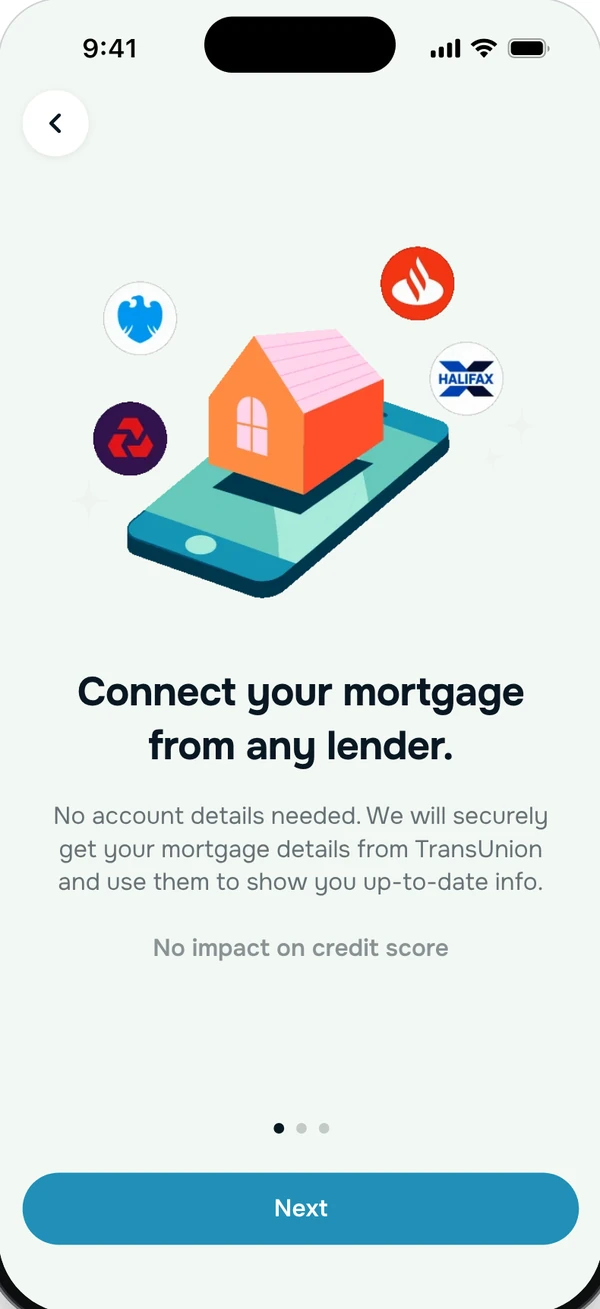
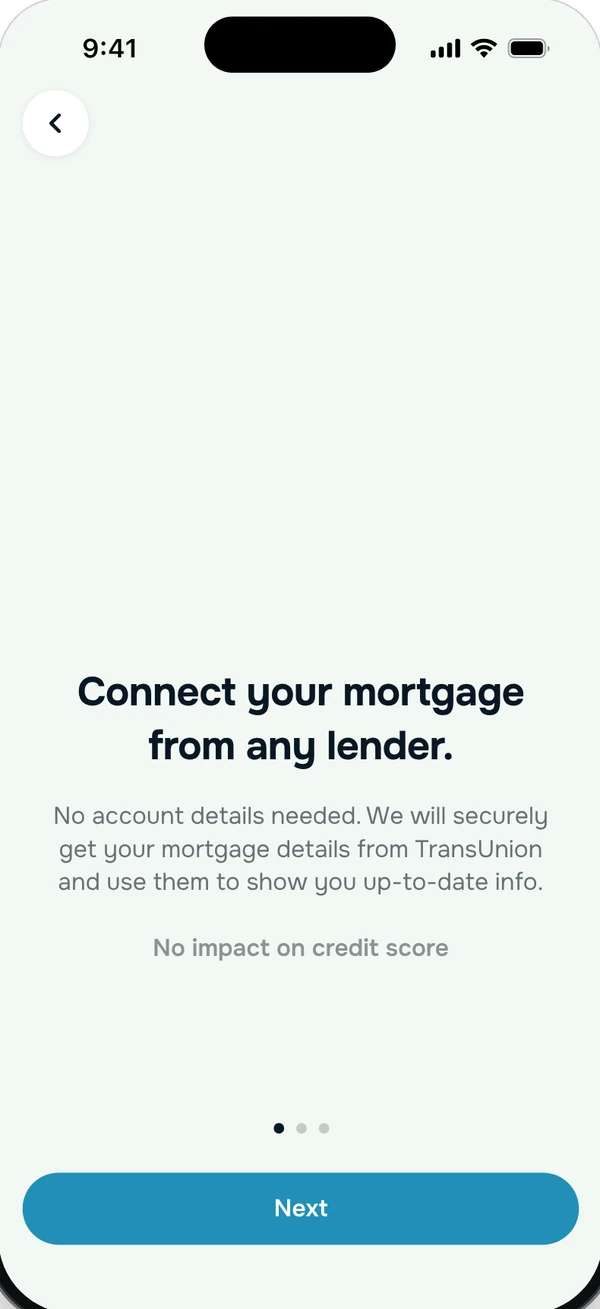
Deck: animated house on the connect screen (slide 2)
Claude-Session: https://claude.ai/code/session_019ui8k763ghSzq4U6arn5bM

Changed region(s): [[0.15, 0.2445, 0.84, 0.4584], [0.63, 0.1833, 0.78, 0.2445], [0.18, 0.2139, 0.27, 0.275]]

diff --git a/remortgage-presentation/15min-present.html b/remortgage-presentation/15min-present.html
@@ -9,11 +9,11 @@
 <link rel="preconnect" href="https://fonts.googleapis.com">
 <link rel="preconnect" href="https://fonts.gstatic.com" crossorigin>
 <link href="https://fonts.googleapis.com/css2?family=DM+Sans:opsz,wght@9..40,400;9..40,500;9..40,600;9..40,700;9..40,800&family=Fragment+Mono&display=swap" rel="stylesheet">
-<link rel="stylesheet" href="styles.css?v=178">
-<link rel="stylesheet" href="deck.css?v=178">
-<link rel="stylesheet" href="monzo.css?v=178">
+<link rel="stylesheet" href="styles.css?v=179">
+<link rel="stylesheet" href="deck.css?v=179">
+<link rel="stylesheet" href="monzo.css?v=179">
 <link rel="preconnect" href="https://images.ctfassets.net">
-<script src="15min-present.js?v=178" defer></script>
+<script src="15min-present.js?v=179" defer></script>
 <style>
 body.present{--bar:52px;background:#112231;grid-template-rows:minmax(0,1fr) auto;height:100svh;min-height:0;overflow:hidden}
 .present .topbar,.present .slide-caption,.present .arrow,.present .notes-bottom,.present .notes-sheet{display:none!important}
@@ -53,7 +53,7 @@ body.present{--bar:52px;background:#112231;grid-template-rows:minmax(0,1fr) auto
 </div></section>
 <section class="slide dark was-light" data-n="02" data-k="context"><div class="eyebrow a mz-kicker">Context</div><h1 class="a" style="--d:1">Monzo customers loved seeing their mortgage in the app, but it didn’t make money</h1>
 <div class="phones-row ctx" style="margin-top:26px">
-  <div class="bz a" style="--d:2"><span class="bz-screen"><img src="assets/img/connect-intro.webp?v=2" alt="Connect your mortgage from any lender, with no account details"></span></div>
+  <div class="bz a" style="--d:2"><span class="bz-screen"><img src="assets/img/connect-intro.webp?v=3" alt="Connect your mortgage from any lender, with no account details"><img class="bz-anim" src="assets/anim/house-light.webp" alt="" aria-hidden="true" style="left:8.54%;top:16.556%;width:82.917%"></span></div>
   <div class="bz a" style="--d:3"><span class="bz-screen"><img src="assets/img/home-1.png" alt="Focus view: your home, equity and mortgage"></span></div>
   <div class="bz a" style="--d:4"><span class="bz-screen bz-375"><img src="assets/img/calc-overpay.png" alt="Overpayment calculator"></span></div>
   <div class="bz a" style="--d:5"><span class="bz-screen bz-375"><img src="assets/img/calc-rate.png" alt="Interest rate calculator: how different rates impact your payment"></span></div>

diff --git a/remortgage-presentation/present.html b/remortgage-presentation/present.html
@@ -9,11 +9,11 @@
 <link rel="preconnect" href="https://fonts.googleapis.com">
 <link rel="preconnect" href="https://fonts.gstatic.com" crossorigin>
 <link href="https://fonts.googleapis.com/css2?family=DM+Sans:opsz,wght@9..40,400;9..40,500;9..40,600;9..40,700;9..40,800&family=Fragment+Mono&display=swap" rel="stylesheet">
-<link rel="stylesheet" href="styles.css?v=178">
-<link rel="stylesheet" href="deck.css?v=178">
-<link rel="stylesheet" href="monzo.css?v=178">
+<link rel="stylesheet" href="styles.css?v=179">
+<link rel="stylesheet" href="deck.css?v=179">
+<link rel="stylesheet" href="monzo.css?v=179">
 <link rel="preconnect" href="https://images.ctfassets.net">
-<script src="present.js?v=178" defer></script>
+<script src="present.js?v=179" defer></script>
 <style>
 body.present{--bar:52px;background:#112231;grid-template-rows:minmax(0,1fr) auto;height:100svh;min-height:0;overflow:hidden}
 .present .topbar,.present .slide-caption,.present .arrow,.present .notes-bottom,.present .notes-sheet{display:none!important}
@@ -53,7 +53,7 @@ body.present{--bar:52px;background:#112231;grid-template-rows:minmax(0,1fr) auto
 </div></section>
 <section class="slide dark was-light" data-n="02" data-k="context"><div class="eyebrow a mz-kicker">Context</div><h1 class="a" style="--d:1">Monzo customers loved seeing their mortgage in the app, but it didn’t make money</h1>
 <div class="phones-row ctx" style="margin-top:26px">
-  <div class="bz a" style="--d:2"><span class="bz-screen"><img src="assets/img/connect-intro.webp?v=2" alt="Connect your mortgage from any lender, with no account details"></span></div>
+  <div class="bz a" style="--d:2"><span class="bz-screen"><img src="assets/img/connect-intro.webp?v=3" alt="Connect your mortgage from any lender, with no account details"><img class="bz-anim" src="assets/anim/house-light.webp" alt="" aria-hidden="true" style="left:8.54%;top:16.556%;width:82.917%"></span></div>
   <div class="bz a" style="--d:3"><span class="bz-screen"><img src="assets/img/home-1.png" alt="Focus view: your home, equity and mortgage"></span></div>
   <div class="bz a" style="--d:4"><span class="bz-screen bz-375"><img src="assets/img/calc-overpay.png" alt="Overpayment calculator"></span></div>
   <div class="bz a" style="--d:5"><span class="bz-screen bz-375"><img src="assets/img/calc-rate.png" alt="Interest rate calculator: how different rates impact your payment"></span></div>

diff --git a/remortgage-presentation/index.html b/remortgage-presentation/index.html
@@ -9,11 +9,11 @@
 <link rel="preconnect" href="https://fonts.googleapis.com">
 <link rel="preconnect" href="https://fonts.gstatic.com" crossorigin>
 <link href="https://fonts.googleapis.com/css2?family=DM+Sans:opsz,wght@9..40,400;9..40,500;9..40,600;9..40,700;9..40,800&family=Fragment+Mono&display=swap" rel="stylesheet">
-<link rel="stylesheet" href="styles.css?v=178">
-<link rel="stylesheet" href="deck.css?v=178">
-<link rel="stylesheet" href="monzo.css?v=178">
+<link rel="stylesheet" href="styles.css?v=179">
+<link rel="stylesheet" href="deck.css?v=179">
+<link rel="stylesheet" href="monzo.css?v=179">
 <link rel="preconnect" href="https://images.ctfassets.net">
-<script src="slides.js?v=178" defer></script>
+<script src="slides.js?v=179" defer></script>
 </head>
 <body>
 <header class="topbar">
@@ -41,7 +41,7 @@
 </div></section>
 <section class="slide dark was-light" data-n="02" data-k="context"><div class="eyebrow a mz-kicker">Context</div><h1 class="a" style="--d:1">Monzo customers loved seeing their mortgage in the app, but it didn’t make money</h1>
 <div class="phones-row ctx" style="margin-top:26px">
-  <div class="bz a" style="--d:2"><span class="bz-screen"><img src="assets/img/connect-intro.webp?v=2" alt="Connect your mortgage from any lender, with no account details"></span></div>
+  <div class="bz a" style="--d:2"><span class="bz-screen"><img src="assets/img/connect-intro.webp?v=3" alt="Connect your mortgage from any lender, with no account details"><img class="bz-anim" src="assets/anim/house-light.webp" alt="" aria-hidden="true" style="left:8.54%;top:16.556%;width:82.917%"></span></div>
   <div class="bz a" style="--d:3"><span class="bz-screen"><img src="assets/img/home-1.png" alt="Focus view: your home, equity and mortgage"></span></div>
   <div class="bz a" style="--d:4"><span class="bz-screen bz-375"><img src="assets/img/calc-overpay.png" alt="Overpayment calculator"></span></div>
   <div class="bz a" style="--d:5"><span class="bz-screen bz-375"><img src="assets/img/calc-rate.png" alt="Interest rate calculator: how different rates impact your payment"></span></div>

diff --git a/remortgage-presentation/15min.html b/remortgage-presentation/15min.html
@@ -9,11 +9,11 @@
 <link rel="preconnect" href="https://fonts.googleapis.com">
 <link rel="preconnect" href="https://fonts.gstatic.com" crossorigin>
 <link href="https://fonts.googleapis.com/css2?family=DM+Sans:opsz,wght@9..40,400;9..40,500;9..40,600;9..40,700;9..40,800&family=Fragment+Mono&display=swap" rel="stylesheet">
-<link rel="stylesheet" href="styles.css?v=178">
-<link rel="stylesheet" href="deck.css?v=178">
-<link rel="stylesheet" href="monzo.css?v=178">
+<link rel="stylesheet" href="styles.css?v=179">
+<link rel="stylesheet" href="deck.css?v=179">
+<link rel="stylesheet" href="monzo.css?v=179">
 <link rel="preconnect" href="https://images.ctfassets.net">
-<script src="15min.js?v=178" defer></script>
+<script src="15min.js?v=179" defer></script>
 </head>
 <body>
 <header class="topbar">
@@ -41,7 +41,7 @@
 </div></section>
 <section class="slide dark was-light" data-n="02" data-k="context"><div class="eyebrow a mz-kicker">Context</div><h1 class="a" style="--d:1">Monzo customers loved seeing their mortgage in the app, but it didn’t make money</h1>
 <div class="phones-row ctx" style="margin-top:26px">
-  <div class="bz a" style="--d:2"><span class="bz-screen"><img src="assets/img/connect-intro.webp?v=2" alt="Connect your mortgage from any lender, with no account details"></span></div>
+  <div class="bz a" style="--d:2"><span class="bz-screen"><img src="assets/img/connect-intro.webp?v=3" alt="Connect your mortgage from any lender, with no account details"><img class="bz-anim" src="assets/anim/house-light.webp" alt="" aria-hidden="true" style="left:8.54%;top:16.556%;width:82.917%"></span></div>
   <div class="bz a" style="--d:3"><span class="bz-screen"><img src="assets/img/home-1.png" alt="Focus view: your home, equity and mortgage"></span></div>
   <div class="bz a" style="--d:4"><span class="bz-screen bz-375"><img src="assets/img/calc-overpay.png" alt="Overpayment calculator"></span></div>
   <div class="bz a" style="--d:5"><span class="bz-screen bz-375"><img src="assets/img/calc-rate.png" alt="Interest rate calculator: how different rates impact your payment"></span></div>
